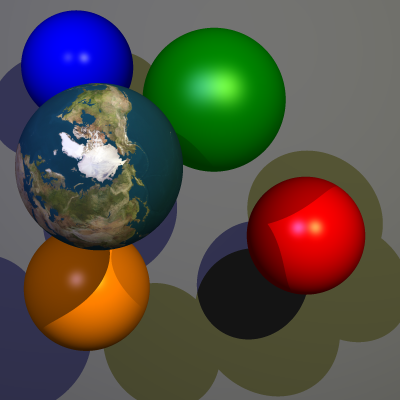
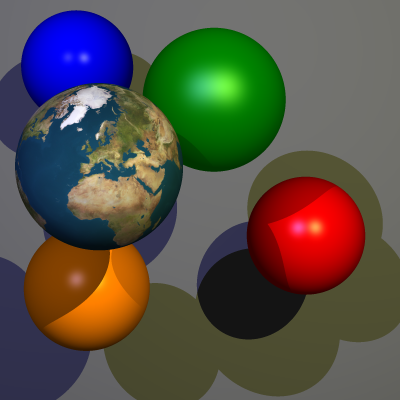
Implemented sphere rotation

Changed region(s): [[0.03, 0.21, 0.45, 0.63]]

diff --git a/Code/shapes/sphere.cpp b/Code/shapes/sphere.cpp
@@ -34,16 +34,30 @@ Sphere::Sphere(Point const &pos, double radius)
 Color Sphere::colorAt(Point const &point) {
     if (material.usingTexture) {
         Vector radius = point - position;
+        if (rotation) {
+            // Rodrigues' rotation formula
+            radius = 
+                cos(rotationAngle)*radius +
+                sin(rotationAngle)*(rotationAxis.cross(radius)) +
+                (1 - cos(rotationAngle))*(rotationAxis.dot(radius))*rotationAxis;
+        }
         double theta = acos(radius.z/r);
-        double phi = atan2(radius.y, radius.x);
+        double phi = atan2(radius.y, radius.x) - phiRotation;
 
-        if (phi < 0) phi += 2*M_PI;
-
-        theta = M_PI-theta;
+        while (phi < 0) phi += 2*M_PI;
+        
         double u = phi/(2*M_PI);
-        double v = (M_PI - theta)/M_PI;
+        double v = theta/M_PI;
         
         return material.texture->colorAt(u,v);
     }
     return material.color;
+}
+
+void Sphere::setRotation(Vector axis, double angle) {
+    rotationAxis = axis.normalized().cross(Vector(0,0,1));
+    rotationAngle = rotationAxis.length();
+    rotationAxis.normalize();
+    phiRotation = angle/180*M_PI;
+    rotation = true;
 }

diff --git a/Code/raytracer.cpp b/Code/raytracer.cpp
@@ -41,7 +41,13 @@ bool Raytracer::parseObjectNode(json const &node)
     {
         Point pos(node["position"]);
         double radius = node["radius"];
-        obj = ObjectPtr(new Sphere(pos, radius));
+        Sphere* sphere = new Sphere(pos, radius);
+        if (node.find("rotation") != node.end() && node.find("angle") != node.end()) {
+            Vector rotation(node["rotation"]);
+            double angle(node["angle"]);
+            sphere->setRotation(rotation, angle);
+        }
+        obj = ObjectPtr(sphere);
     } else if (node["type"] == "triangle")
     {
         Point v0(node["v0"]);
@@ -64,7 +70,7 @@ bool Raytracer::parseObjectNode(json const &node)
     {
         string model = node["model"];
         Vector translation(0,0,0);
-        if (node["translation"].is_array()) {
+        if (node.find("translation") != node.end()) {
             translation = Vector(node["translation"]);
         }
         Mesh* mesh = new Mesh(model);

diff --git a/Code/shapes/sphere.h b/Code/shapes/sphere.h
@@ -6,11 +6,17 @@
 
 class Sphere: public Object
 {
+	Vector rotationAxis;
+	double rotationAngle;
+	double phiRotation = 0;
+	bool rotation = false;
+
 	public:
         Sphere(Point const &pos, double radius);
 
         virtual Hit intersect(Ray const &ray);
         virtual Color colorAt(Point const &point);
+        void setRotation(Vector axis, double angle);
 
         Point const position;
         double const r;
